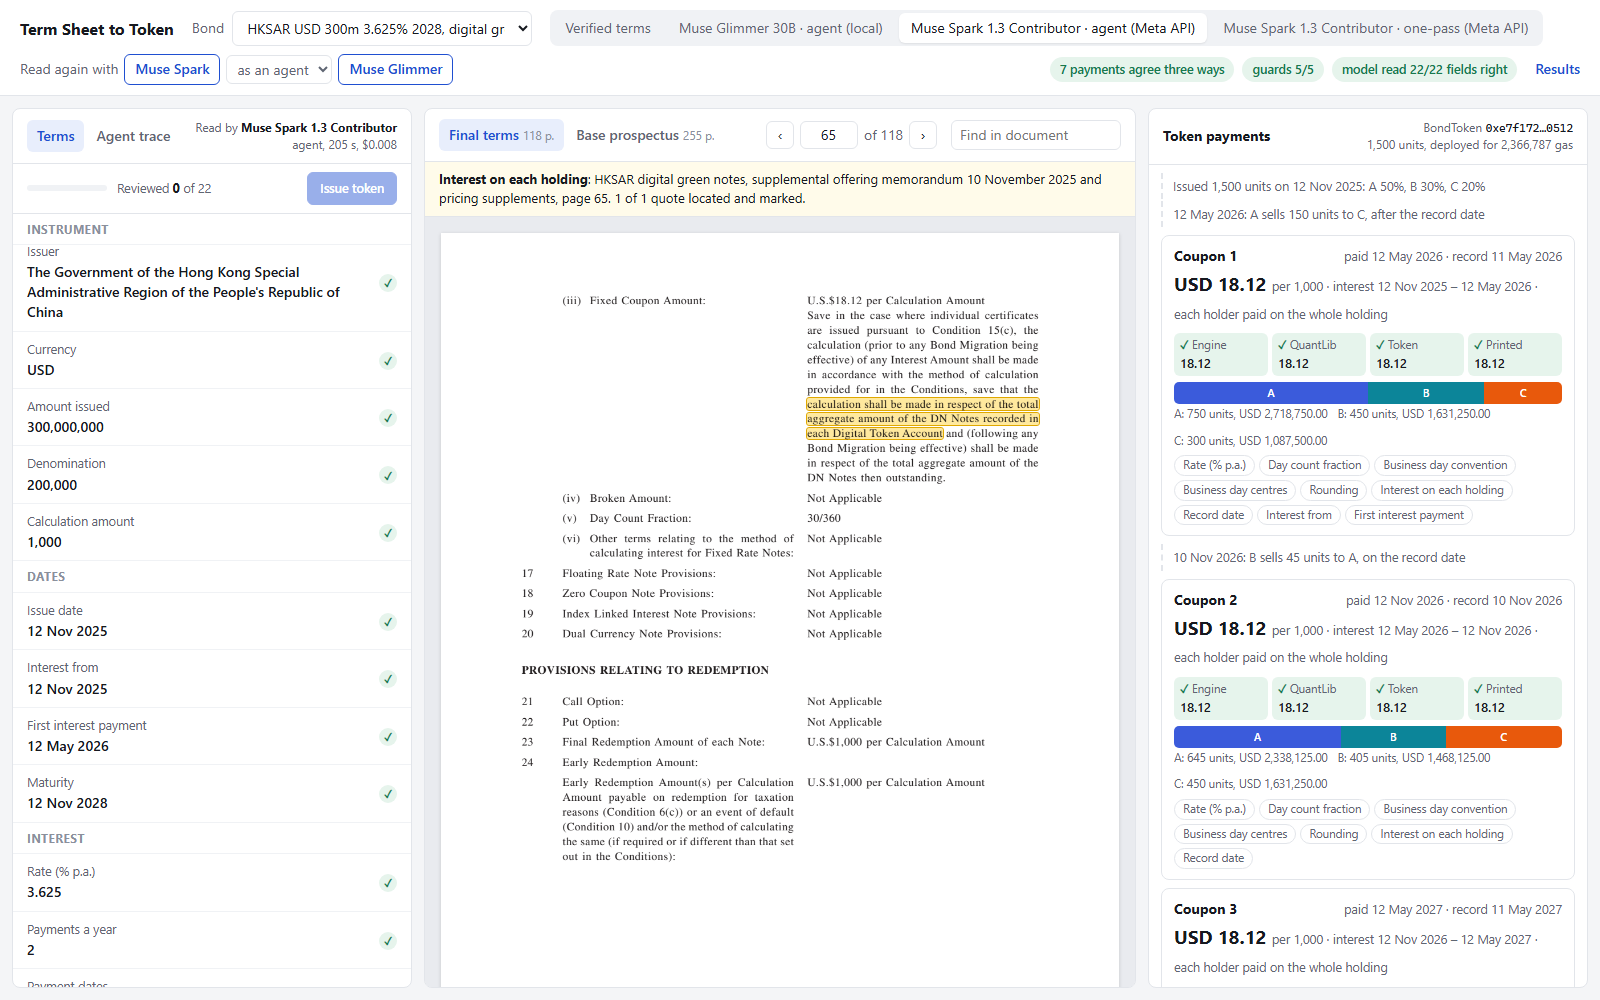
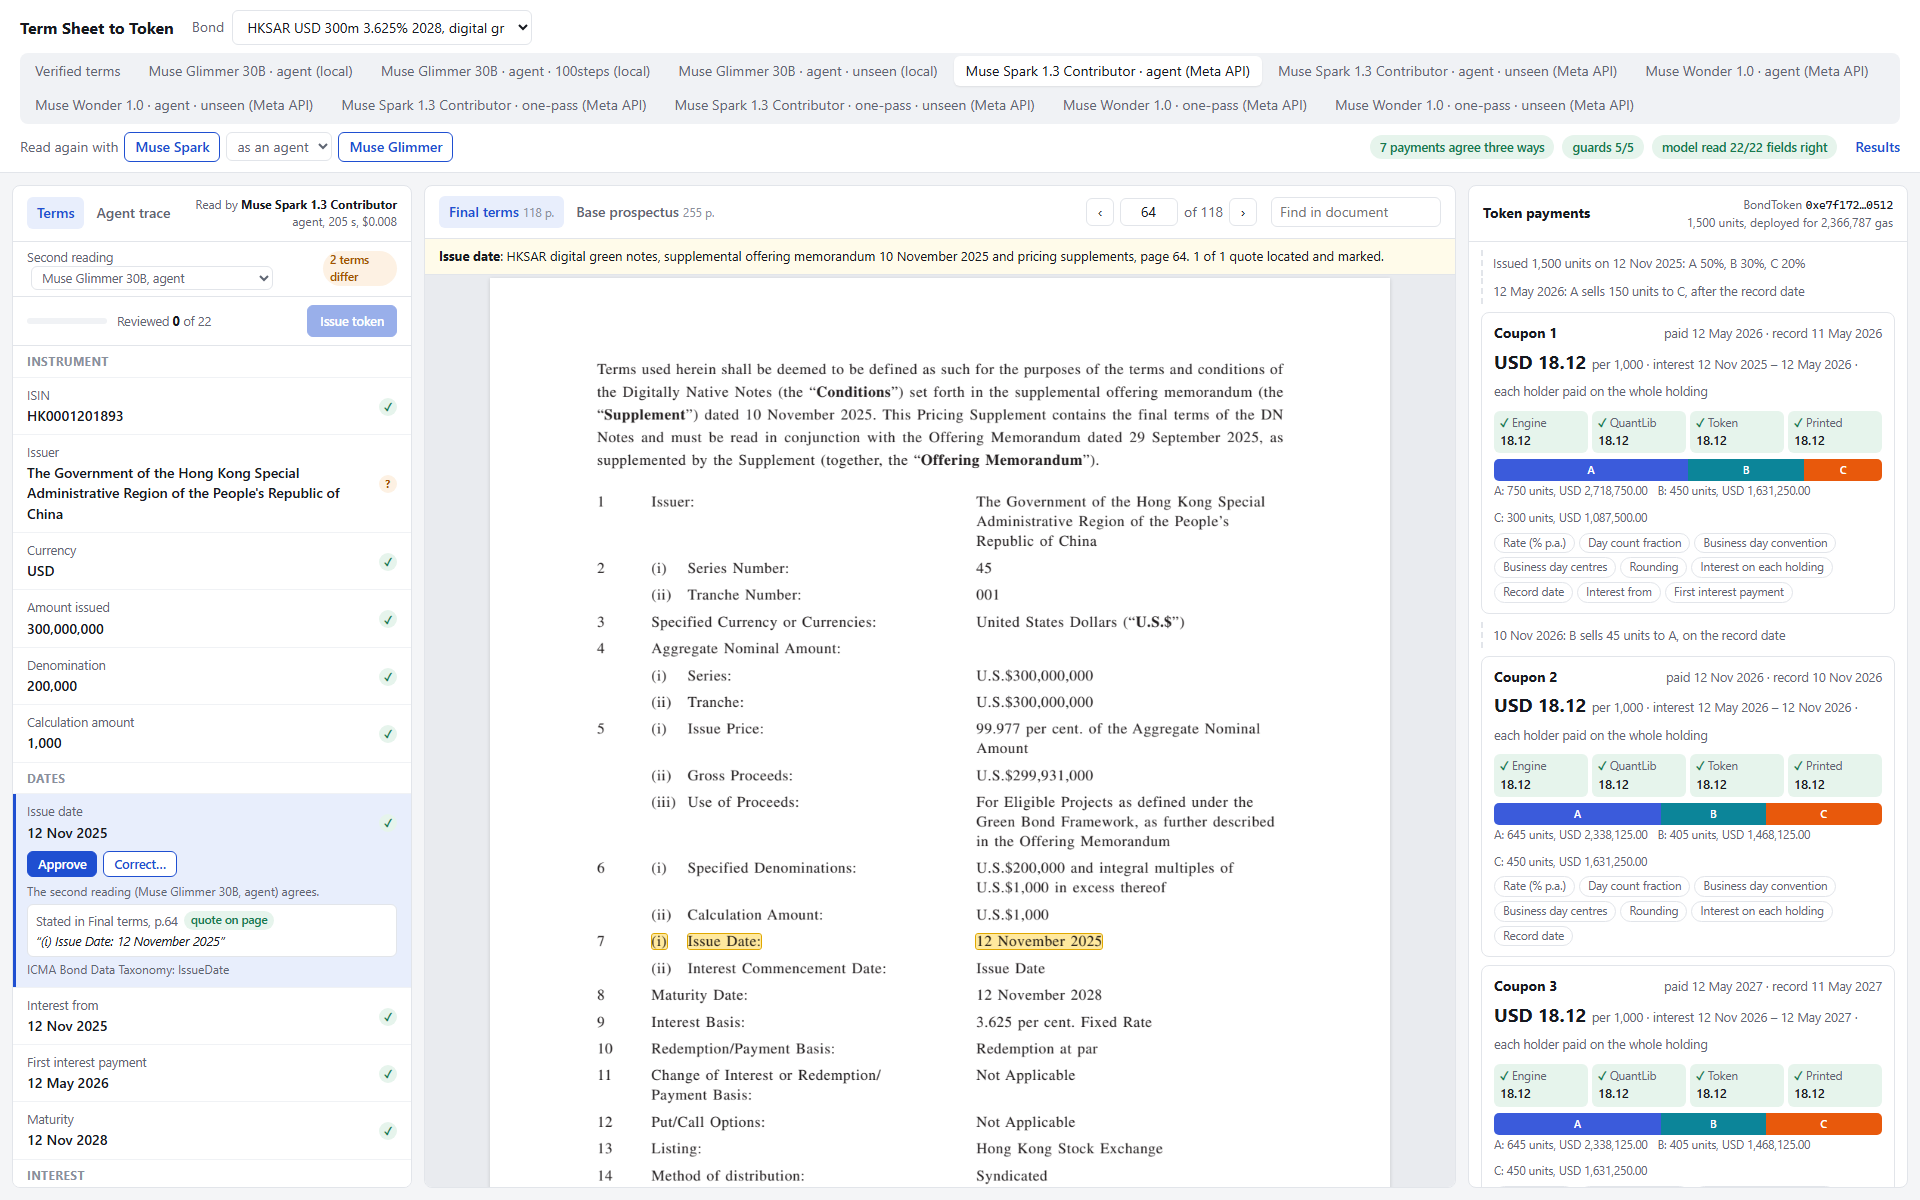
Refresh the review screen picture and add a click-through of the screen
The picture shows the HKSAR USD 3.625% 2028 digital green bond as Muse Spark read
it, with the issue date open: the sentence on page 64 marked, the second reading's
agreement, and the coupons with the holders at each record date. The animation
walks from a term to its sentence and its definition, through the coupons and the
results, to an issuance record.

The results view counts twenty-five bonds, as its tables do.

diff --git a/web/app.js b/web/app.js
@@ -784,13 +784,13 @@ async function showResults() {
   const termRows = results.terms || [];
   const withEffect = termRows.reduce((a, r) => a + r.with_effect, 0);
   const caught = termRows.reduce((a, r) => a + r.caught, 0);
-  let html = `<h1>Results</h1><p class="lede">Eighteen live fixed-rate bonds: IBRD notes including a digitally native one, the Hong Kong
+  let html = `<h1>Results</h1><p class="lede">Twenty-five live fixed-rate bonds: IBRD notes including a digitally native one, the Hong Kong
     digital green bonds, and supranational, sovereign and corporate notes from public filings. Every number below can be reproduced with
     <code>tstt verify</code>, <code>tstt mutate</code> and <code>tstt eval</code>.</p>
     <div class="cards">
       <div class="card"><div class="big">${payments}</div><div class="what">payments on ${truth.length} bonds where the engine, QuantLib, the token on chain and the printed amounts ${allOk ? "all agree" : "do not all agree"}</div></div>
       <div class="card"><div class="big">${probes}/${probesTotal}</div><div class="what">guard probes rejected on chain (early payment, wrong payer, double payment, early redemption, unpaid coupon)</div></div>
-      <div class="card"><div class="big">${mutants.filter((m) => m.caught).length}/${mutants.length}</div><div class="what">deliberate bugs in the bond contract caught by replaying the 18 bonds and the contract tests</div></div>
+      <div class="card"><div class="big">${mutants.filter((m) => m.caught).length}/${mutants.length}</div><div class="what">deliberate bugs in the bond contract caught by replaying the 25 bonds and the contract tests</div></div>
       <div class="card"><div class="big">${caught}/${withEffect}</div><div class="what">injected term errors that change a cash flow, flagged by the consistency checks before issuance</div></div>
     </div>`;
   if (results.eval.length) {

diff --git a/README.md b/README.md
@@ -32,6 +32,8 @@ flowchart LR
 
 ![The review screen: the terms Muse Spark read from the Hong Kong SAR digital green bond, the pricing supplement page with the sentence it relied on marked, and every coupon with the amounts from the engine, QuantLib, the token and the documents](docs/review-screen.png)
 
+![A click through the review screen: a term and the sentence it was read from, the clause that defines it, the coupons with the holders at each record date, the results, and the issuance record](docs/review-screen.gif)
+
 Built for the Meta Global AI Developer Hackathon, October to November 2026.
 
 ## How Meta's models are used
